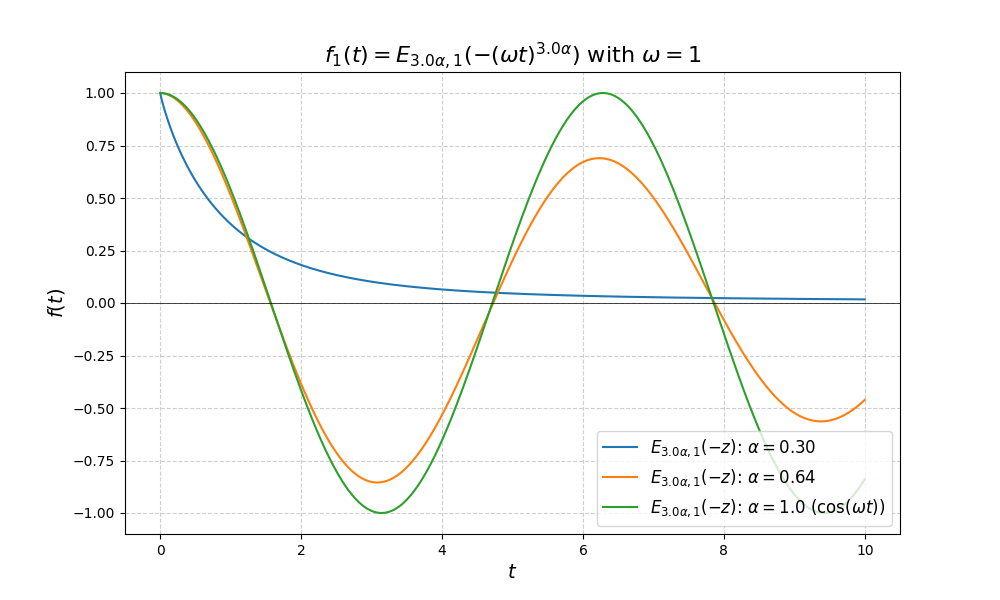
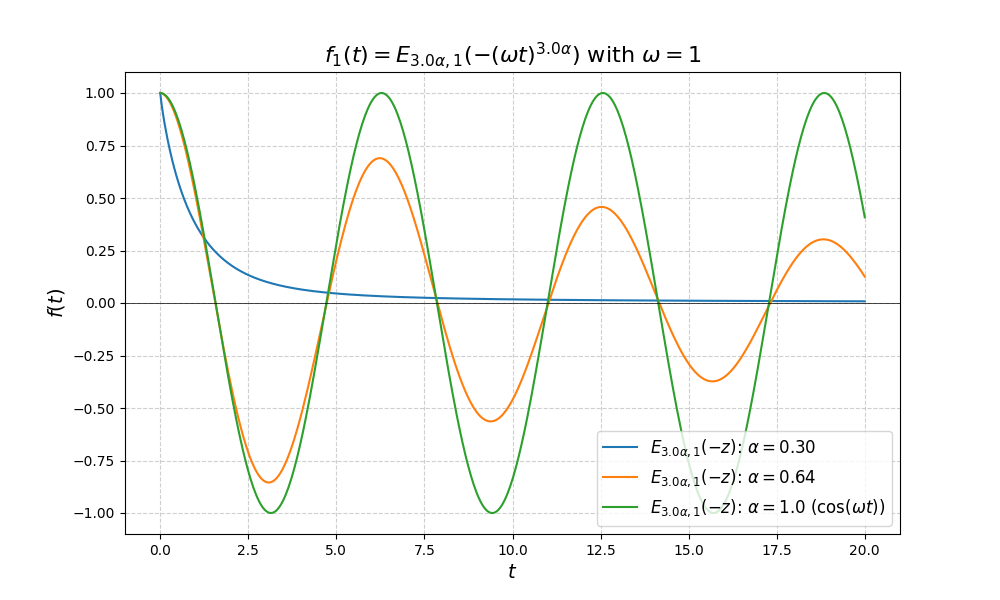
update commit

diff --git a/main.py b/main.py
@@ -11,7 +11,7 @@ class MittagLefflerPlotter:
     Function 2: f2(t) = (\omega*t)^\alpha E_{self.m*alpha, 1+\alpha}(-(\omega*t)^{self.m*alpha})
     """
 
-    def __init__(self, omega=1.0, t_end=10.0, num_points=500, K=70):
+    def __init__(self, omega=1.0, t_end=10.0, num_points=500, K=70) -> None:
         """
         Args:
             omega (float): Frequency parameters (omega)
@@ -24,7 +24,7 @@ class MittagLefflerPlotter:
         self.t = np.linspace(0, t_end, num_points)
         self.K = K
 
-    def _approx_f1(self, t, alpha):
+    def _approx_f1(self, t, alpha) -> np.ndarray[float]:
         alpha_ml = float(self.m) * alpha
         z = -(self.omega * t) ** alpha_ml
         result = np.zeros_like(t, dtype=float)
@@ -39,17 +39,17 @@ class MittagLefflerPlotter:
 
         return result
 
-    def _approx_f2(self, t, alpha):
-        # sum_{k=0}^{\infty} [ (-1)^k * (omega*t)^{\alpha*(2k+1)} / Gamma(2*alpha*k + 1+alpha) ]
+    def _approx_f2(self, t, alpha) -> np.ndarray[float]:
+        # sum_{k=0}^{\infty} [ (-1)^k * (omega*t)^{\alpha*(self.m*k+1)} / Gamma(self.m*alpha*k + 1+alpha) ]
 
         result = np.zeros_like(t, dtype=float)
 
         for k in range(self.K):
-            # Numerator: (-1)^k * (omega*t)^{\alpha*(2k+1)}
+            # Numerator: (-1)^k * (omega*t)^{\alpha*(self.m*k+1)}
             exponent = alpha * (float(self.m) * k + 1)
             numerator = ((-1.0) ** k) * np.power(self.omega * t, exponent)
 
-            # Denominator: Gamma(2*alpha*k + 1+alpha)
+            # Denominator: Gamma(self.m*alpha*k + 1+alpha)
             gamma_arg = float(self.m) * alpha * k + 1 + alpha
             denominator = gamma(gamma_arg)
 
@@ -58,7 +58,7 @@ class MittagLefflerPlotter:
 
         return result
 
-    def calculate_f1(self, alpha):
+    def calculate_f1(self, alpha) -> tuple[np.ndarray[float], str]:
         if alpha == 0.5:
             # alpha=0.5 -> e^{-(\omega t)}
             y = np.exp(-(self.omega * self.t))
@@ -72,7 +72,7 @@ class MittagLefflerPlotter:
             label = fr'$E_{{{self.m}\alpha, 1}}(-z)$: $\alpha={alpha:.2f}$'
         return y, label
 
-    def calculate_f2(self, alpha):
+    def calculate_f2(self, alpha) -> tuple[np.ndarray[float], str]:
         if alpha == 1.0:
             # alpha=1.0 -> sin(\omega t)
             y = np.sin(self.omega * self.t)
@@ -82,7 +82,7 @@ class MittagLefflerPlotter:
             label = fr'$(\omega t)^\alpha E_{{{self.m}\alpha, 1+\alpha}}(-z)$: $\alpha={alpha:.2f}$'
         return y, label
 
-    def plot_function(self, function_name, alphas, filename='plot.png'):
+    def plot_function(self, function_name, alphas, filename='plot.png') -> None:
         """
         Draws a graph using the specified function and alpha value.
 
@@ -121,7 +121,7 @@ class MittagLefflerPlotter:
 
 # --- execution part ---
 if __name__ == '__main__':
-    plotter = MittagLefflerPlotter(t_end=10.0)
+    plotter = MittagLefflerPlotter(t_end=20.0)
     alphas_to_plot = [0.30, 0.64, 1.0]
 
     # 1. Draw the graph of the first function (E_{2*alpha, 1})
